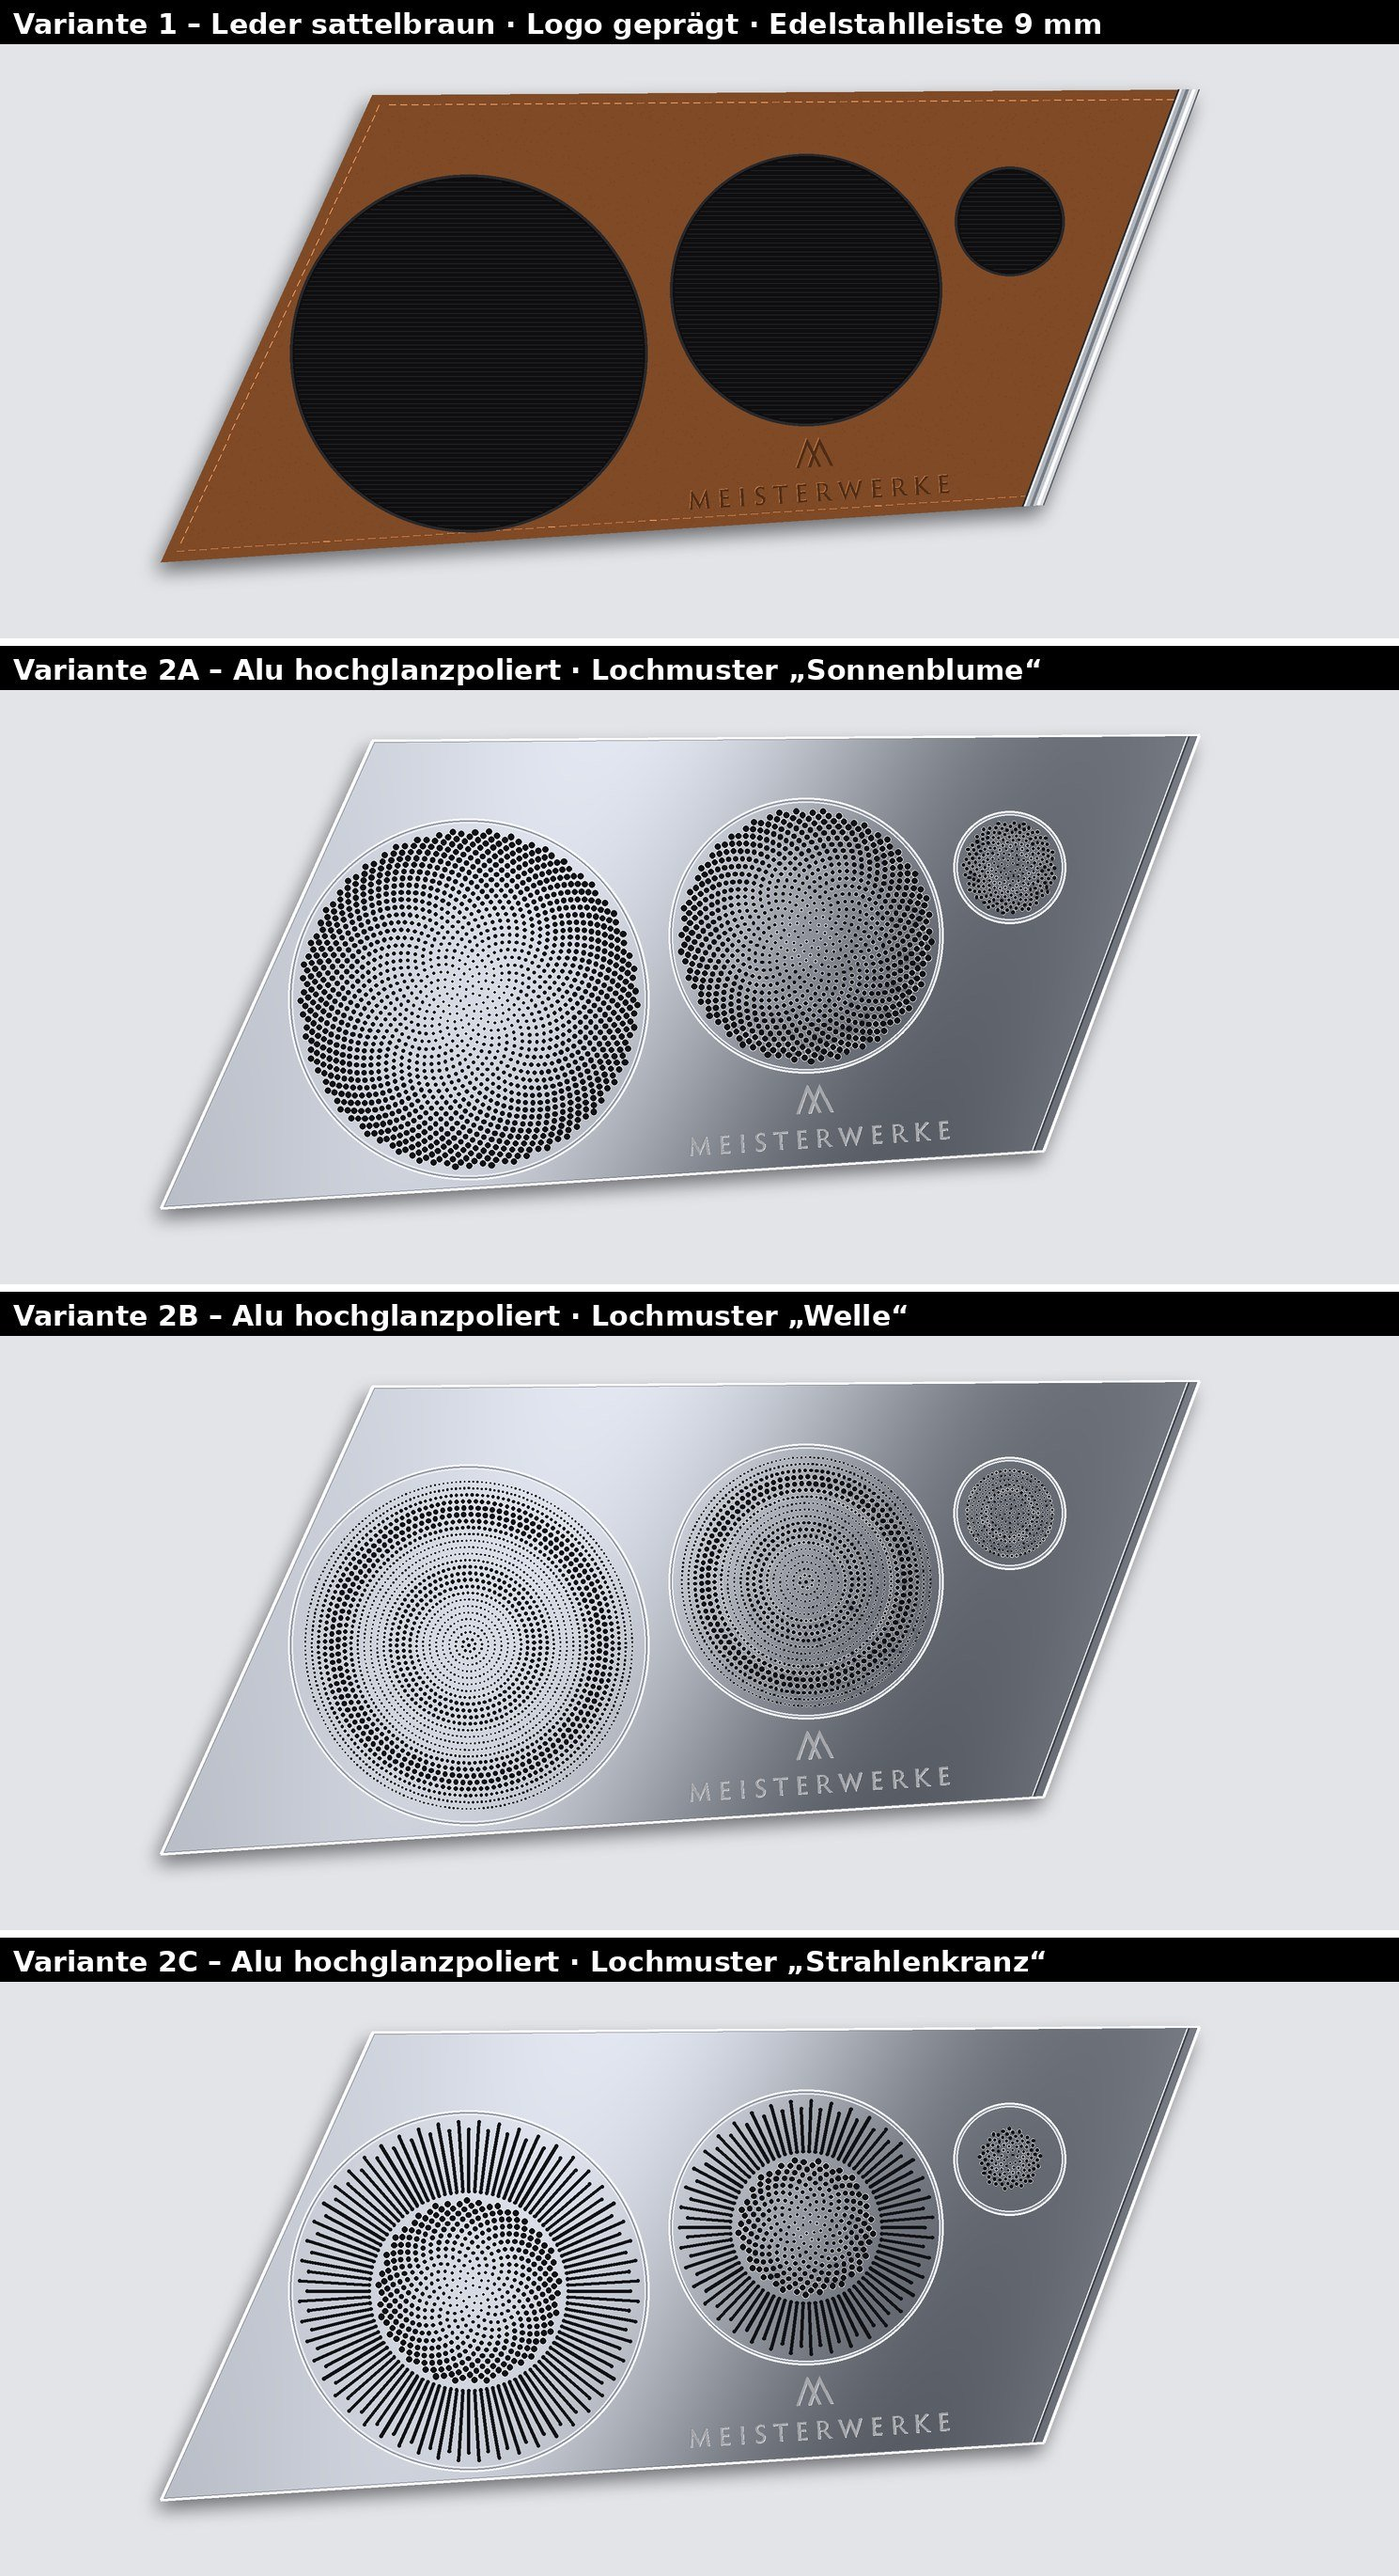
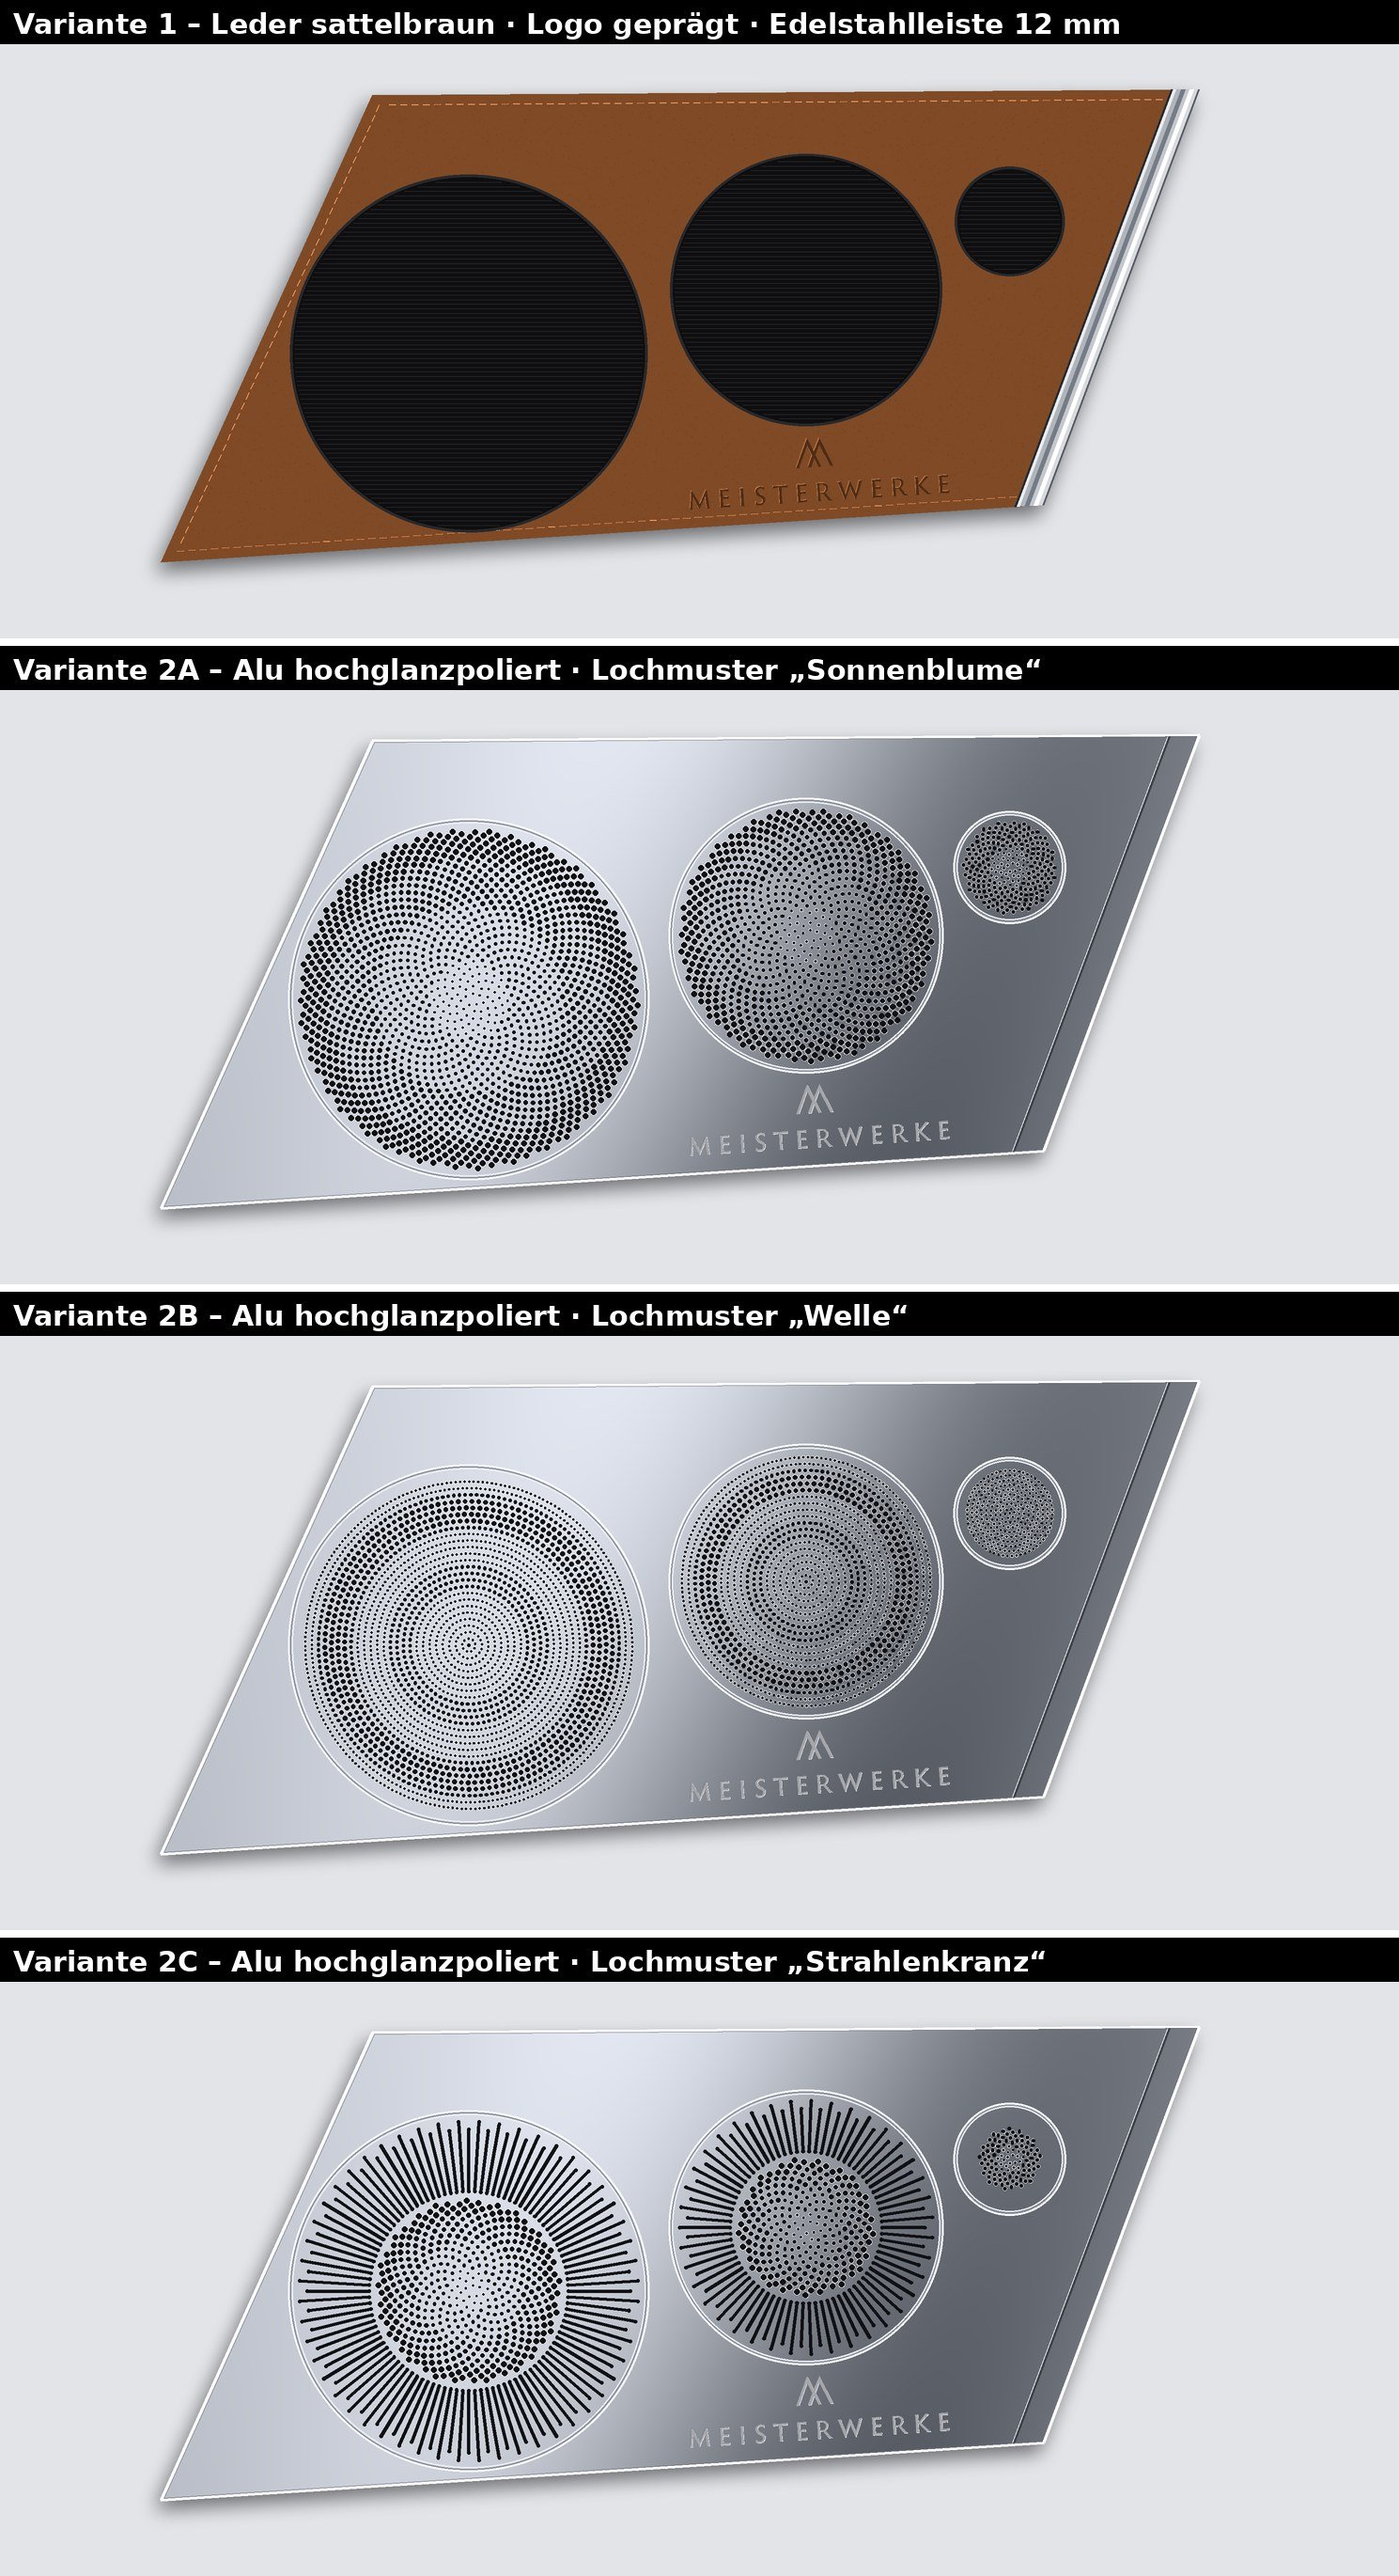
Blende: 12-mm-Kantenband/Edelstahlleiste, nur 4 Bohrdurchmesser (1,0/1,5/2,0/2,5)
Claude-Session: https://claude.ai/code/session_01QM8wSzkajYxSVoAyJoSFf2

diff --git a/testprojekt-alu-bauteil/03_konzepte/render/konzepte2.py b/testprojekt-alu-bauteil/03_konzepte/render/konzepte2.py
@@ -1,6 +1,8 @@
 import numpy as np, math
 exec(open('konzepte.py').read().split("K_LIST=[")[0])
 GOLD=math.radians(137.50776)
+DIAMS=[1.0,1.5,2.0,2.5]   # nur 4 Bohrdurchmesser (Werkzeugkosten)
+def qd(d): return min(DIAMS,key=lambda v:abs(v-d))
 SADDLE=(128,74,38)
 
 def polished(img,poly):
@@ -33,18 +35,18 @@ def feld_sonnenblume(pen,cx,cy,D):
     c=R/math.sqrt(n)
     for i in range(1,n):
         r=c*math.sqrt(i); a=i*GOLD
-        t=r/R; d=(0.9+1.9*t**1.25) if big else (0.7+0.9*t)
+        t=r/R; d=qd((1.0+1.6*t**1.25) if big else (1.0+0.6*t))
         if r+d/2>R: continue
         hole(pen,(cx+r*math.cos(a),cy+r*math.sin(a)),d)
 
 def feld_welle(pen,cx,cy,D):
     """B: konzentrische Lochkreise, Loch-Ø wellenförmig moduliert – Ringe scheinen zu 'schwingen' (Schallwelle)."""
     R=D/2-1.8; big=D>60; ring=2.9 if big else 2.1
-    k=1; hole(pen,(cx,cy),1.4 if big else 1.0)
+    k=1; hole(pen,(cx,cy),1.5 if big else 1.0)
     while k*ring<R-1.2:
         r=k*ring; t=r/R
         d=((1.2+1.3*t)*(0.62+0.38*math.cos(2*math.pi*r/(R/2.6)))) if big else (0.8+0.6*t)*(0.7+0.3*math.cos(2*math.pi*r/(R/2)))
-        d=max(d,0.7); n=int(2*math.pi*r/max(d+1.0,1.9))
+        d=qd(max(d,1.0)); n=int(2*math.pi*r/max(d+1.0,1.9))
         for i in range(n):
             a=2*math.pi*i/n+k*0.21
             hole(pen,(cx+r*math.cos(a),cy+r*math.sin(a)),d)
@@ -90,7 +92,7 @@ def sheet_montage(items,path):
     ims=[label(fn(base.copy()),t) for t,fn in items]; stack(ims,path)
 
 if __name__=='__main__':
-    V1=("Variante 1 – Leder sattelbraun · Logo geprägt · Edelstahlleiste 9 mm", leder)
+    V1=("Variante 1 – Leder sattelbraun · Logo geprägt · Edelstahlleiste 12 mm", leder)
     items=[V1]+[(f"Variante 2{k} – Alu hochglanzpoliert · Lochmuster „{n}“", (lambda kk: (lambda im: alu_poliert(im,kk)))(k)) for k,(n,_) in MUSTER.items()]
     sheet(items,'Vorschau_flach.jpg',crop)
     sheet_montage(items,'Vorschau_Montage.jpg')

diff --git a/testprojekt-alu-bauteil/04_cad/blende/blende_2a.py b/testprojekt-alu-bauteil/04_cad/blende/blende_2a.py
@@ -23,19 +23,20 @@ BL=np.array(P['blende_vorgaben']['kontur_foto_angepasst']['ecken'])      # (0/0)
 HOLES=[(a['mitte'][0],a['mitte'][1],a['d']) for a in P['einbauschnittstelle']['ausschnitte']]
 DK=np.array(P['einbauschnittstelle']['deckel_front'])
 MAGNETS=[(23.2,16.1),(103.2,192.6),(364.5,38.1),(423.3,194.8)]
-STEPS=6                  # Bohrstufen
+DIAMS=[1.0,1.5,2.0,2.5]  # nur 4 Bohrdurchmesser für die ganze Blende (Werkzeugkosten)
 
 def phyllotaxis(cx,cy,D):
     R=D/2-1.8; big=D>60; pitch=3.1 if big else 2.2
     n=int((R/pitch)**2*math.pi*0.92); c=R/math.sqrt(n); g=math.radians(137.50776); pts=[]
     for i in range(1,n):
         r=c*math.sqrt(i); a=i*g; t=r/R
-        d=(0.9+1.9*t**1.25) if big else (0.7+0.9*t)
+        d=(1.0+1.6*t**1.25) if big else (1.0+0.6*t)
         if r+d/2>R: continue
         pts.append((cx+r*math.cos(a),cy+r*math.sin(a),d))
     return pts
 def quantize(pts):
-    ds=np.array([p[2] for p in pts]); lv=np.round(np.linspace(ds.min(),ds.max(),STEPS),1)
+    """Kontinuierlichen Verlauf auf die 4 Standard-Bohrdurchmesser abbilden (nächstliegender Wert)."""
+    lv=np.array(DIAMS)
     return [(x,y,float(lv[np.argmin(abs(lv-d))])) for x,y,d in pts], lv
 
 def poly_wp(pts,z=0.0):

diff --git a/testprojekt-alu-bauteil/03_konzepte/render/konzepte.py b/testprojekt-alu-bauteil/03_konzepte/render/konzepte.py
@@ -83,7 +83,7 @@ def _edge_offset(a,b,g):
     p=a+n*g
     lo=cut(p,d,BL[0],BL[1]-BL[0]); hi=cut(p,d,BL[3],BL[2]-BL[3])
     return lo,hi
-def edelstahlleiste(pen,breite=9.0):
+def edelstahlleiste(pen,breite=12.0):
     """Polierte Edelstahl-Abschlussleiste an der rechten (überstehenden) Kante, Breite wie die Einfassung des
     Schwalbennests im Rumpf (≈ 9 mm, aus dem Foto gemessen). Spiegelnd: dunkle Reflexkante außen, Glanzstreifen,
     Umgebungsreflex, Schattenfuge innen."""
@@ -93,7 +93,7 @@ def edelstahlleiste(pen,breite=9.0):
     for r0,r1,col in rel:
         l0,h0=_edge_offset(a,b,r0*breite); l1,h1=_edge_offset(a,b,r1*breite)
         pen.poly([l0,h0,h1,l1],fill=col)
-def nut(pen,abstand=4.0,breite=1.2):
+def nut(pen,abstand=12.0,breite=1.2):
     """Schlanke gefräste Nut parallel zur rechten Kante (optische Nähe zur Edelstahleinfassung), Glanzflanke."""
     a,b=BL[1],BL[2]
     l0,h0=_edge_offset(a,b,abstand); l1,h1=_edge_offset(a,b,abstand+breite)

diff --git a/testprojekt-alu-bauteil/03_konzepte/KONZEPTE.md b/testprojekt-alu-bauteil/03_konzepte/KONZEPTE.md
@@ -6,10 +6,11 @@
 
 **Variante 1 – Leder sattelbraun:** Lautsprechergitter schwarz, Logo blind geprägt, Ziernaht, an der
 überstehenden rechten Kante eine **polierte Edelstahl-Abschlussleiste, 9 mm breit** (so breit wie die
-Einfassung des Schwalbennests im Rumpf, aus dem Foto gemessen: oben ≈ 9 mm, links ≈ 8 mm).
+Einfassung des Schwalbennests im Rumpf, aus dem Foto gemessen: oben ≈ 9 mm, links ≈ 8 mm; **auf Wunsch
+verbreitert auf 12 mm**).
 
 **Variante 2 – Aluminium hochglanzpoliert mit Lochmuster:** Logo eingefräst (ohne Farbe, keine LED),
-schlanke gefräste **Kantennut** (1,2 mm breit, 4 mm innen) parallel zur rechten Kante als optische Nähe zur
+schlanke gefräste **Kantennut** (1,2 mm breit, **12 mm** innen → 12-mm-Kantenband) parallel zur rechten Kante als optische Nähe zur
 Edelstahleinfassung, Diamantschnitt-Ring um jedes Lochfeld. Das Lochmuster soll ein **Blickfang** sein
 statt eines technischen Rasters (vgl. Burmester). Drei Entwürfe:
 
@@ -20,7 +21,7 @@ statt eines technischen Rasters (vgl. Burmester). Drei Entwürfe:
 | **2C „Strahlenkranz“** | Zentrum als Sonnenblumenfeld, außen Kranz aus Langlöchern im Wechsel lang/kurz | dynamisch, Blick zieht zur Treibermitte |
 
 Fertigung (für alle drei): Lochfelder von hinten auf 2,0–2,5 mm Restwand taschenfräsen, Verlaufsgrößen
-in 4–6 Stufen (Standardbohrer), Langlöcher mit Schaftfräser Ø 1,5 mm. Hochglanz: Polieren bzw.
+in **nur 4 Bohrdurchmessern Ø 1,0 / 1,5 / 2,0 / 2,5 mm** für die ganze Blende (Werkzeugkosten), Langlöcher mit Schaftfräser Ø 1,5 mm. Hochglanz: Polieren bzw.
 Diamantfräsen, danach Klarlack oder Glanzeloxal.
 
 ---
